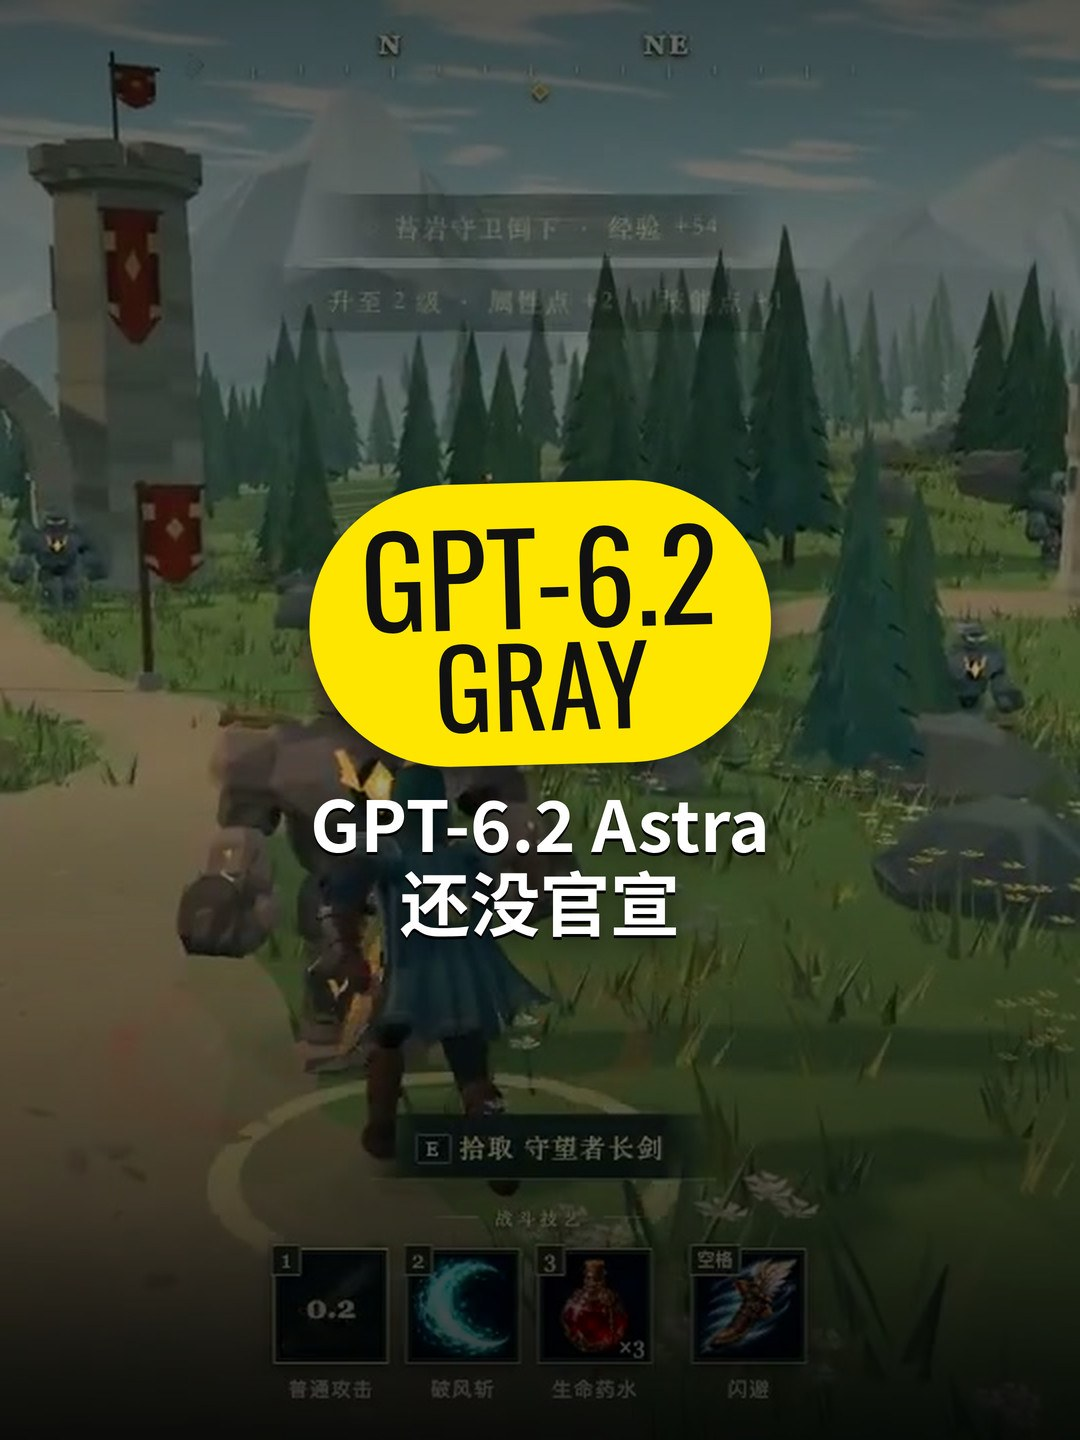
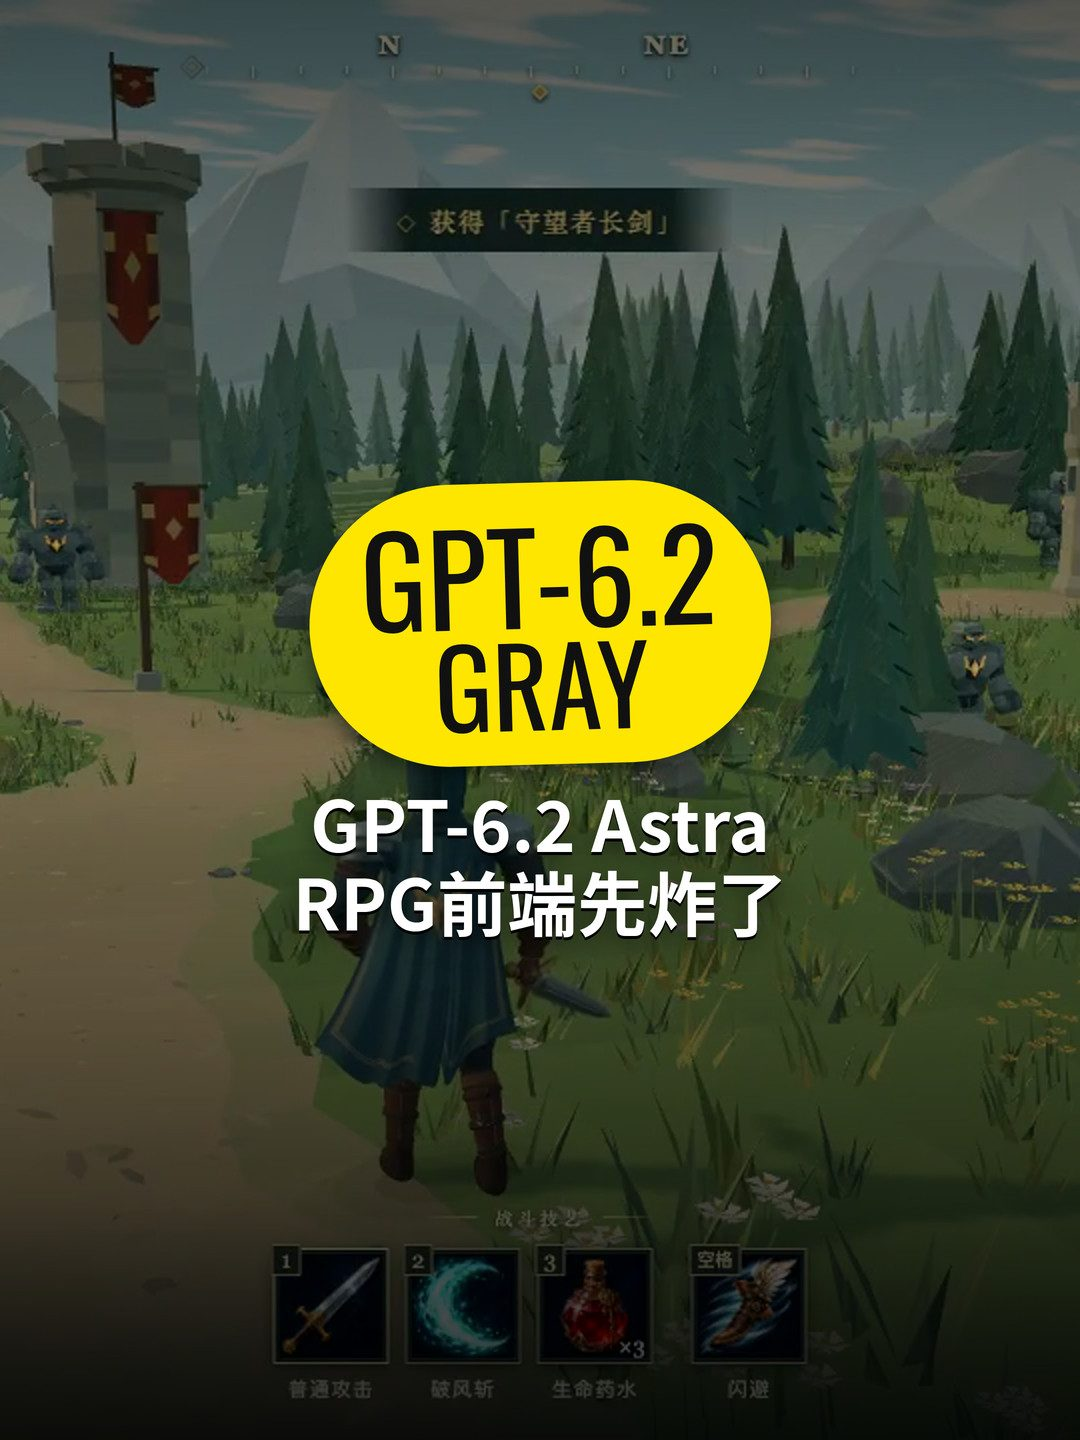
tvp: remake gpt-6-2-astra Beat01=RPG video open
Justin 2026-11-07: first beat must be eye-catching RPG frontend mp4, not usage still. Refresh covers/PUBLISH/Pages; Release 2K clobber separately.

diff --git a/public/tvp/gpt-6-2-astra/index.html b/public/tvp/gpt-6-2-astra/index.html
@@ -38,7 +38,7 @@ main{max-width:720px;margin:0 auto;padding:16px 18px 48px;display:flex;flex-dire
 <body>
 <header>
   <a class="back" href="../">← 选题库</a>
-  <h1>GPT-6.2 Astra：还没官宣就进 Codex 用量了</h1>
+  <h1>GPT-6.2 Astra：三维 RPG 前端先炸了，还没官宣</h1>
   <p>灰测/传闻 · 未官宣 · 真2K · B=Hypebeast 主推 · 点「复制」直接粘贴发帖</p>
 </header>
 <div class="covers">
@@ -62,7 +62,7 @@ main{max-width:720px;margin:0 auto;padding:16px 18px 48px;display:flex;flex-dire
         src="https://ghfast.top/https://github.com/stefli/wechat/releases/download/tvp-gpt-6-2-astra/gpt_6_2_astra_2k.mp4">
         你的浏览器不支持 HTML5 视频，请改用下载链接。
       </video>
-      <p class="meta">约 47s · 旁白 + BGM · ~17MB · GitHub Release 托管（git 树不提交 mp4）。默认只挂 2K，不出 4K。口播口径：OpenAI 未官宣。国内可用「加速下载 / 备用加速」（第三方代理，可能失效）；「原链」为官方 GitHub。</p>
+      <p class="meta">约 49s · 旁白 + BGM · ~15MB · Beat01=RPG 开场 remake · GitHub Release 托管（git 树不提交 mp4）。默认只挂 2K，不出 4K。口播口径：OpenAI 未官宣。国内可用「加速下载 / 备用加速」（第三方代理，可能失效）；「原链」为官方 GitHub。</p>
     </div>
   </div>
 </section>
@@ -70,28 +70,29 @@ main{max-width:720px;margin:0 auto;padding:16px 18px 48px;display:flex;flex-dire
   <p class="hint">A / B / C 三版各点一次复制；手机也可用。抖音上传请用工程 posters/douyin_upload 的 1080×1440 JPG，勿转发微信再传。聊天气泡优先附 B JPG。</p>
   <section class="block">
   <div class="block-h"><h2>A · 主推版</h2><button class="btn" type="button" data-target="cap-A" onclick="copyText(this)">复制</button></div>
-  <pre class="pre" id="cap-A">GPT-6.2 Astra：还没官宣，就进 Codex 用量了。编程助手用量统计里冒出 `gpt-6.2-astra`，选择器仍写 GPT-6 Astra，部分请求像灰度被悄悄路由。社区放出鹈鹕 360° 骑车、半开放世界 3D RPG，观感很炸，但都是灰测展示，不是官方发布片。九月已官宣过 Astra，这次 6.2 更像同系列迭代。媒体传今天周五可能是发版窗口——那是传闻，不是 OpenAI 新闻稿。别和安全特化的 Cyber 混成一篇。边界：未官宣、无公开定价，别为了追标签乱烧额度。你刷到用量标签了吗？评论区报。
+  <pre class="pre" id="cap-A">GPT-6.2 Astra：一句话搭出三维 RPG？还没官宣。先看社区放出的半开放世界 3D RPG 前端——任务日志、技能栏、小地图一应俱全，观感很炸。编程助手用量统计里同时冒出 `gpt-6.2-astra`，选择器仍写 GPT-6 Astra，部分请求像灰度被悄悄路由。鹈鹕 360° 骑车等灰测展示也在刷屏，但都不是官方发布片。九月已官宣过 Astra，这次 6.2 更像同系列迭代。媒体传昨天周五可能是发版窗口——那是传闻，不是 OpenAI 新闻稿。别和安全特化的 Cyber 混成一篇。边界：未官宣、无公开定价，别为了追标签乱烧额度。你刷到用量标签了吗？评论区报。
 
 #GPT6 #Astra #OpenAI #Codex #科技快播 #科技新闻</pre>
 </section>
 <section class="block">
   <div class="block-h"><h2>B · 一句话短版</h2><button class="btn" type="button" data-target="cap-B" onclick="copyText(this)">复制</button></div>
-  <pre class="pre" id="cap-B">GPT-6.2 Astra / 还没官宣就进 Codex 用量了，社区 demo 很炸但别当发版。
+  <pre class="pre" id="cap-B">GPT-6.2 Astra / 三维 RPG 前端先炸了，还没官宣就进 Codex 用量；社区 demo 很炸但别当发版。
 
 #GPT6 #Astra #OpenAI #科技快播</pre>
 </section>
 <section class="block">
   <div class="block-h"><h2>C · 结构化要点版</h2><button class="btn" type="button" data-target="cap-C" onclick="copyText(this)">复制</button></div>
-  <pre class="pre" id="cap-C">📊 GPT-6.2 Astra：灰测进用量，官方未公告
+  <pre class="pre" id="cap-C">📊 GPT-6.2 Astra：RPG 前端吸睛，官方未公告
 
-▪ 信源：TestingCatalog · FiniYang 用量截图/鹈鹕/RPG · openai.com 负向核验（截至 2026-11-06 仍无官宣）
+▪ 信源：TestingCatalog · FiniYang 用量截图/鹈鹕/RPG · openai.com / 文档负向核验（截至 2026-11-07 仍无官宣）
+▪ 开场：社区 3D RPG 前端实拍（Beat01 Hook · Justin）
 ▪ 证据：Codex 用量出现 gpt-6.2-astra（约 10/31 起）；选择器仍 GPT-6 Astra；疑似灰度路由
-▪ 展示：社区鹈鹕 360°、半开放世界 3D RPG——灰测观感，非官方片
+▪ 展示：鹈鹕 360°、半开放世界 3D RPG——灰测观感，非官方片
 ▪ 对照：九月已官宣 GPT-6 Astra；本片不混 GPT-6 Cyber
-▪ 传闻：周五窗口（媒体/The Information 向）≠ OpenAI 新闻稿
+▪ 传闻：周五窗口（媒体向）≠ OpenAI 新闻稿
 ▪ 边界：未官宣 · 无公开定价/上下文 · 别追标签烧额度
 
-一句话：GPT-6.2 Astra 还没官宣，却已在 Codex 用量里冒头。
+一句话：GPT-6.2 Astra 还没官宣，社区却先甩出三维 RPG 前端。
 
 #GPT6 #Astra #OpenAI #Codex #科技快播</pre>
 </section>

diff --git a/public/tvp/index.html b/public/tvp/index.html
@@ -35,11 +35,11 @@ body { margin:0; font-family: system-ui, -apple-system, "PingFang SC", "Microsof
 
   <article class="card">
     <div class="covers">
-      <a href="./gpt-6-2-astra/cover_B.jpg" target="_blank" rel="noopener"><img src="./gpt-6-2-astra/cover_B.jpg" alt="GPT-6.2 Astra：还没官宣就进 Codex 用量了 封面 B 主推"></a>
-      <a href="./gpt-6-2-astra/cover_A.jpg" target="_blank" rel="noopener"><img src="./gpt-6-2-astra/cover_A.jpg" alt="GPT-6.2 Astra：还没官宣就进 Codex 用量了 封面 A 备选"></a>
+      <a href="./gpt-6-2-astra/cover_B.jpg" target="_blank" rel="noopener"><img src="./gpt-6-2-astra/cover_B.jpg" alt="GPT-6.2 Astra：三维 RPG 前端先炸了，还没官宣 封面 B 主推"></a>
+      <a href="./gpt-6-2-astra/cover_A.jpg" target="_blank" rel="noopener"><img src="./gpt-6-2-astra/cover_A.jpg" alt="GPT-6.2 Astra：三维 RPG 前端先炸了，还没官宣 封面 A 备选"></a>
     </div>
     <div class="body">
-      <h2>GPT-6.2 Astra：还没官宣就进 Codex 用量了</h2>
+      <h2>GPT-6.2 Astra：三维 RPG 前端先炸了，还没官宣</h2>
       <div class="meta">2026-11-06 · 灰测/传闻 · 未官宣 · Codex 用量标签 · 社区鹈鹕/RPG · 真2K · B主推</div>
       <div class="links">
         <a href="./gpt-6-2-astra/">文案复制</a>

diff --git a/public/tvp/gpt-6-2-astra/PUBLISH.md b/public/tvp/gpt-6-2-astra/PUBLISH.md
@@ -1,25 +1,26 @@
-# PUBLISH — GPT-6.2 Astra（灰测/传闻）
+# PUBLISH — GPT-6.2 Astra（灰测/传闻 · Beat01=RPG 开场 remake）
 
 ## A · 主推版
-GPT-6.2 Astra：还没官宣，就进 Codex 用量了。编程助手用量统计里冒出 `gpt-6.2-astra`，选择器仍写 GPT-6 Astra，部分请求像灰度被悄悄路由。社区放出鹈鹕 360° 骑车、半开放世界 3D RPG，观感很炸，但都是灰测展示，不是官方发布片。九月已官宣过 Astra，这次 6.2 更像同系列迭代。媒体传今天周五可能是发版窗口——那是传闻，不是 OpenAI 新闻稿。别和安全特化的 Cyber 混成一篇。边界：未官宣、无公开定价，别为了追标签乱烧额度。你刷到用量标签了吗？评论区报。
+GPT-6.2 Astra：一句话搭出三维 RPG？还没官宣。先看社区放出的半开放世界 3D RPG 前端——任务日志、技能栏、小地图一应俱全，观感很炸。编程助手用量统计里同时冒出 `gpt-6.2-astra`，选择器仍写 GPT-6 Astra，部分请求像灰度被悄悄路由。鹈鹕 360° 骑车等灰测展示也在刷屏，但都不是官方发布片。九月已官宣过 Astra，这次 6.2 更像同系列迭代。媒体传昨天周五可能是发版窗口——那是传闻，不是 OpenAI 新闻稿。别和安全特化的 Cyber 混成一篇。边界：未官宣、无公开定价，别为了追标签乱烧额度。你刷到用量标签了吗？评论区报。
 
 #GPT6 #Astra #OpenAI #Codex #科技快播 #科技新闻
 
 ## B · 一句话短版
-GPT-6.2 Astra / 还没官宣就进 Codex 用量了，社区 demo 很炸但别当发版。
+GPT-6.2 Astra / 三维 RPG 前端先炸了，还没官宣就进 Codex 用量；社区 demo 很炸但别当发版。
 
 #GPT6 #Astra #OpenAI #科技快播
 
 ## C · 结构化要点版
-📊 GPT-6.2 Astra：灰测进用量，官方未公告
+📊 GPT-6.2 Astra：RPG 前端吸睛，官方未公告
 
-▪ 信源：TestingCatalog · FiniYang 用量截图/鹈鹕/RPG · openai.com 负向核验（截至 2026-11-06 仍无官宣）
+▪ 信源：TestingCatalog · FiniYang 用量截图/鹈鹕/RPG · openai.com / 文档负向核验（截至 2026-11-07 仍无官宣）
+▪ 开场：社区 3D RPG 前端实拍（Beat01 Hook · Justin）
 ▪ 证据：Codex 用量出现 gpt-6.2-astra（约 10/31 起）；选择器仍 GPT-6 Astra；疑似灰度路由
-▪ 展示：社区鹈鹕 360°、半开放世界 3D RPG——灰测观感，非官方片
+▪ 展示：鹈鹕 360°、半开放世界 3D RPG——灰测观感，非官方片
 ▪ 对照：九月已官宣 GPT-6 Astra；本片不混 GPT-6 Cyber
-▪ 传闻：周五窗口（媒体/The Information 向）≠ OpenAI 新闻稿
+▪ 传闻：周五窗口（媒体向）≠ OpenAI 新闻稿
 ▪ 边界：未官宣 · 无公开定价/上下文 · 别追标签烧额度
 
-一句话：GPT-6.2 Astra 还没官宣，却已在 Codex 用量里冒头。
+一句话：GPT-6.2 Astra 还没官宣，社区却先甩出三维 RPG 前端。
 
 #GPT6 #Astra #OpenAI #Codex #科技快播
